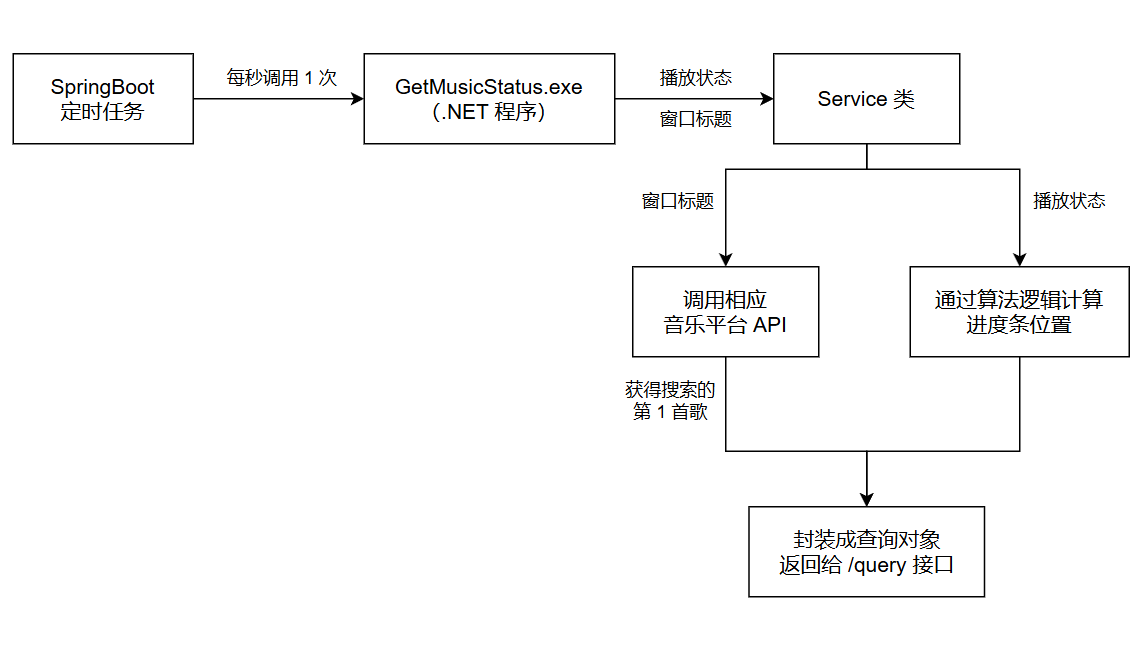
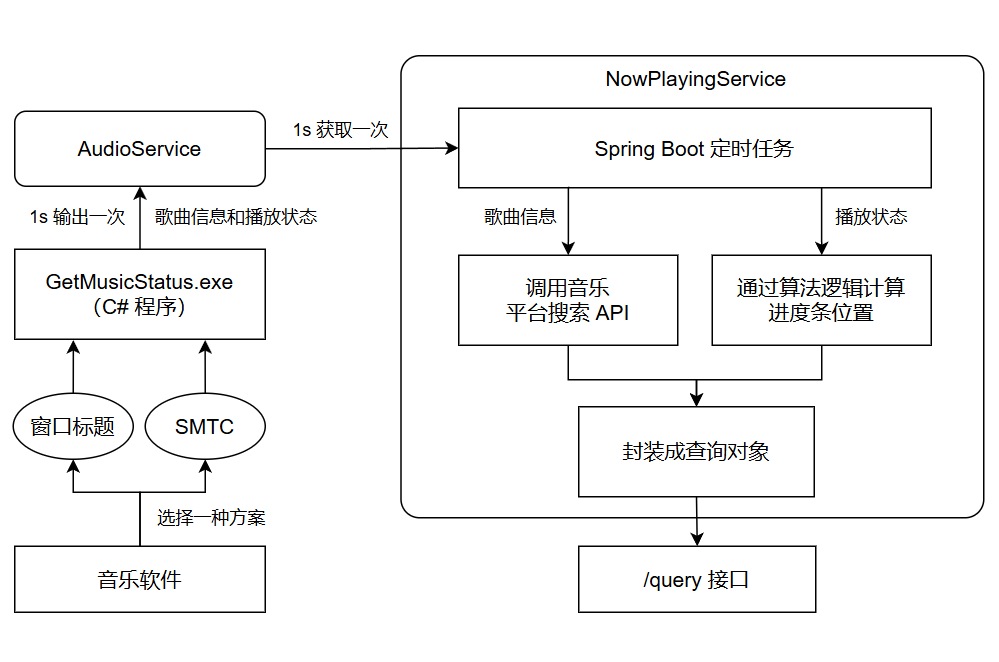
修改 README.md

diff --git a/README.md b/README.md
@@ -10,10 +10,10 @@ QQ 交流群：150453391
 
 ## 功能特性
 
-- 支持国内主流音乐软件（网易云音乐、QQ 音乐、酷狗音乐、酷我音乐）
+- 支持国内主流音乐软件（网易云音乐、QQ 音乐、酷狗音乐、酷我音乐、汽水音乐）
 - 支持国外平台（Spotify、Apple Music）
-- 支持本地播放器（PotPlayer、Foobar2000、洛雪音乐）
-- 支持点歌（通过卡西米尔唱片机）
+- 支持点歌（卡西米尔唱片机、花花直播助手）
+- 支持本地播放器（PotPlayer、Foobar2000、洛雪音乐、MusicFree）
 - 能够实时检测正在播放的 **歌曲信息** 以及 **进度条信息**
   - 歌曲信息
     - 歌名
@@ -25,7 +25,8 @@ QQ 交流群：150453391
     - 进度条位置
     - 是否暂停
 - 提供查询 API 接口
-- 适用于 OBS、B 站直播姬、抖音直播、虎牙直播、Streamlabs 等各类直播软件
+- 支持两种方式识别歌曲：窗口标题或 SMTC
+- 适用于 OBS、B 站直播姬、虎牙直播、Streamlabs 等各类直播软件
 
 
 
@@ -40,15 +41,18 @@ QQ 交流群：150453391
    - 信息日志在 info.log 里查看，错误日志在 error.log 里查看
 4. 浏览器访问 `http://localhost:9863`，当看到页面上显示 "NowPlaying Service is Running" 就说明程序运行成功
 
-【注意事项】如果你用网易云听歌，电脑上已经安装过 Java 环境，并且 JDK 版本 > 14，那么你需要使用旧版本 Java 来运行该程序（[点击查看操作步骤](https://www.kdocs.cn/l/cmfQeMoUD87z)）
-
 
 
 ## 如何编译
 
 - 由于版权原因，该项目仅包含后端代码
 - 核心代码使用 Java 编写，使用 IDEA 打开即可
-- 外部程序 `external_programs/AudioService` 的代码使用 C# 编写，使用 Visual Studio 或 VS Code 打开
+  - **运行：**运行 NowPlayingApplication 类的 main 方法
+  - **打包：**双击 IDEA 右侧 Maven - Lifecycle 的 clean，然后再双击 package，即可生成 JAR 包
+  - **JAR To EXE：**你可以使用 [exe4j](https://www.ej-technologies.com/exe4j/download) 将 JAR 包转为 EXE
+- 外部程序 `external_programs/AudioService/GetMusicStatus` 的代码使用 C# 编写，使用 VS Code 打开
+  - **运行：**`dotnet run`
+  - **打包：**`dotnet publish -c Release -r win-x64 --self-contained -o ./publish`
 
 
 
@@ -57,7 +61,7 @@ QQ 交流群：150453391
 ### 方法一
 
 - 结合 [该网站](https://6klabs.com/amuse) 使用
-- 首先使用 Google 账号登录（只有登录才用到梯子），然后点击 "Widgets" 页面进入组件的设置页面
+- 首先使用 Google 账号登录（只有登录时才用到梯子），然后点击 "Widgets" 页面进入组件的设置页面
 - 第一行 "Music Service" 一定要选择 "YouTube Music"。后面的设置就是歌曲显示组件的样式，可自由选择
 - 在 "OBS Setup" 里点击 "Click here to copy your URL"
 - 在直播软件中添加浏览器源，URL 填入刚才复制的内容。此时打开音乐软件播放歌曲，便能看到正在播放的歌曲被显示出来。效果如下所示：
@@ -75,7 +79,17 @@ QQ 交流群：150453391
 
 ## 程序原理
 
-首先通过 `Assets/AudioService/GetMusicStatus.exe` 程序获取到音乐软件的播放状态（Playing, Paused, None）、音乐平台（Netease, QQ, KuGou, KuWo）、窗口标题。该程序可独立运行，运行示例如下图所示：
+首先通过 `Assets/AudioService/GetMusicStatus.exe` 程序检测音乐软件的播放状态（Playing, Paused, None）和歌曲信息，每隔 1 秒输出一次。
+
+接收命令行参数（具体取值请参考 [源码](https://github.com/Widdit/now-playing-service/blob/master/external_programs/AudioService/GetMusicStatus/Program.cs)）：
+
+| 参数        | 含义 | 描述                                                         |
+| ----------- | ---- | ------------------------------------------------------------ |
+| --device-id | 音频设备 ID | 仅检测该音频设备，默认值为 "default"，检测默认音频设备       |
+| --platform  | 音乐平台 | 期望检测的音乐软件平台，默认值为 "netease"，检测网易云音乐 |
+| --smtc      | 是否优先使用 SMTC | 默认值为 true，优先通过 SMTC 识别歌曲信息 |
+
+该程序可独立运行，运行示例如下图所示：
 ![](/images/getMusicStatus_output.png)
 程序执行流程图如下图所示：
 ![](/images/flow_chart.png)
